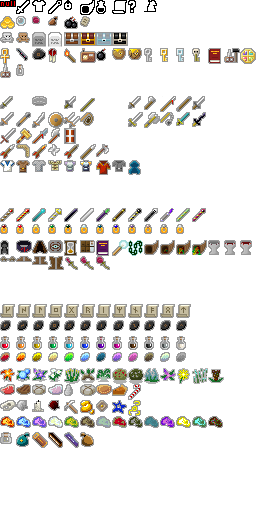
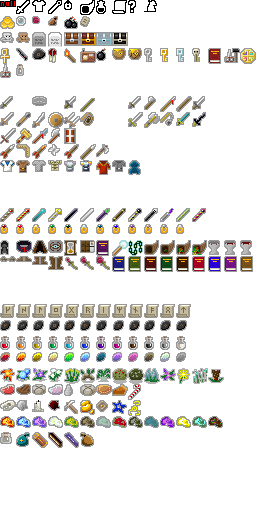
Generator Updated

Changed region(s): [[0.4375, 0.5, 1.0, 0.5312]]

diff --git a/core/src/main/java/com/lovecraftpixel/lovecraftpixeldungeon/scenes/ChangesScene.java b/core/src/main/java/com/lovecraftpixel/lovecraftpixeldungeon/scenes/ChangesScene.java
@@ -25,18 +25,25 @@ package com.lovecraftpixel.lovecraftpixeldungeon.scenes;
 
 import com.lovecraftpixel.lovecraftpixeldungeon.Chrome;
 import com.lovecraftpixel.lovecraftpixeldungeon.LovecraftPixelDungeon;
-import com.lovecraftpixel.lovecraftpixeldungeon.actors.mobs.livingplants.LivingPlantFireBloom;
+import com.lovecraftpixel.lovecraftpixeldungeon.actors.mobs.npcs.Gardner;
 import com.lovecraftpixel.lovecraftpixeldungeon.items.Generator;
 import com.lovecraftpixel.lovecraftpixeldungeon.items.Item;
+import com.lovecraftpixel.lovecraftpixeldungeon.items.quest.ElderSign;
+import com.lovecraftpixel.lovecraftpixeldungeon.items.quest.YellowSign;
+import com.lovecraftpixel.lovecraftpixeldungeon.items.tools.Scissors;
+import com.lovecraftpixel.lovecraftpixeldungeon.items.tools.Tincturebottle;
 import com.lovecraftpixel.lovecraftpixeldungeon.messages.Messages;
+import com.lovecraftpixel.lovecraftpixeldungeon.sprites.GardnerSprite;
 import com.lovecraftpixel.lovecraftpixeldungeon.sprites.ItemSprite;
 import com.lovecraftpixel.lovecraftpixeldungeon.sprites.ItemSpriteSheet;
+import com.lovecraftpixel.lovecraftpixeldungeon.sprites.LivingFirebloomPlantSprite;
 import com.lovecraftpixel.lovecraftpixeldungeon.ui.Archs;
 import com.lovecraftpixel.lovecraftpixeldungeon.ui.ExitButton;
 import com.lovecraftpixel.lovecraftpixeldungeon.ui.Icons;
 import com.lovecraftpixel.lovecraftpixeldungeon.ui.RenderedTextMultiline;
 import com.lovecraftpixel.lovecraftpixeldungeon.ui.ScrollPane;
 import com.lovecraftpixel.lovecraftpixeldungeon.ui.Window;
+import com.lovecraftpixel.lovecraftpixeldungeon.utils.BookTitles;
 import com.lovecraftpixel.lovecraftpixeldungeon.windows.WndTitledMessage;
 import com.watabou.input.Touchscreen;
 import com.watabou.noosa.Camera;
@@ -105,22 +112,75 @@ public class ChangesScene extends PixelScene {
 		changes.hardlight(Window.TITLE_COLOR);
 		infos.add(changes);
 		
-		changes.addButton( new ChangeButton( Icons.get(Icons.PREFS), "Custom Names",
+		changes.addButton( new ChangeButton( new ItemSprite(ItemSpriteSheet.BOOK_GOLD, null), "Custom Names",
 				"You now have to give your hero a name before you start a new game, it can also be a random generated name."));
 
-		changes.addButton( new ChangeButton( Icons.get(Icons.PREFS), "Mental Health",
+		changes.addButton( new ChangeButton( new ItemSprite(ItemSpriteSheet.BOOK_PURPLE, null), "Mental Health",
 				"Your Mental Health is very important. It can be a hard task keeping your sanity in the dungeons..."));
 
-		changes.addButton( new ChangeButton( Icons.get(Icons.PREFS), "Knowledge",
+		changes.addButton( new ChangeButton( new ItemSprite(ItemSpriteSheet.BOOK_BLUE, null), "Knowledge",
 				"Discovering Secrets raises your knowledge. Knowledge can be used in multiple ways."));
 
-		changes.addButton( new ChangeButton( new ItemSprite(ItemSpriteSheet.ARTIFACT_SPELLBOOK, null), "Grimoire",
-				"You now have to give your hero a name before you start a new game, it can also be a random generated name."));
+		changes.addButton( new ChangeButton( new ItemSprite(ItemSpriteSheet.BOOK_RED, null), "Flavour Text",
+				"All kinds of items have now colorful quotes randomly assigned to them."));
+
+		changes.addButton( new ChangeButton( new ItemSprite(ItemSpriteSheet.BOOK_BROWN, null), "Grimoire",
+				"You now can fill a book about all the creatures you encountered. It works just like a Pokedex."));
+
+		changes.addButton( new ChangeButton( Icons.get(Icons.MASTERY), "Book Titles",
+				"Clicking on bookshelfs now gives you a random flavour booktitle just like this one: \n\n" + BookTitles.getRandomTitle()));
+
+		changes.addButton( new ChangeButton( new ItemSprite(ItemSpriteSheet.BOOK_GREEN, null), "Wells",
+				"Wells grant a mental health and knowledge boost."));
+
+		changes = new ChangeInfo("Mobs", false, null);
+		changes.hardlight( Window.TITLE_COLOR );
+		infos.add(changes);
+
+		changes.addButton( new ChangeButton(new LivingFirebloomPlantSprite(), "Living Plants", "Living Plants look like normal plants. If you step on a Living Plant, it wakes up and attacks everything around it. When slain, they drop their respective seed and have some other nasty or helpful effects."));
+
+		changes.addButton( new ChangeButton(new GardnerSprite(), new Gardner().name, new Gardner().description()));
+
+		changes = new ChangeInfo("Items", false, null);
+		changes.hardlight( Window.TITLE_COLOR );
+		infos.add(changes);
 
 		changes.addButton( new ChangeButton( new ItemSprite(Generator.random(Generator.Category.WEAPON).image, null), "Poisoned Weapon",
 				"You now have the ability to poison your weapons with seeds."));
 
-		changes.addButton( new ChangeButton(new LivingPlantFireBloom().sprite(), "Living Plants", "Living Plants look like normal plants. If you step on a Living Plant, it wakes up and attacks everything around it. When slain, they drop their respective seed and have some other nasty or helpful effects."));
+		changes.addButton( new ChangeButton( Icons.get(Icons.FOODBAG), "Food Bag",
+				"The Food Bag stores your food, simple as that."));
+
+		changes.addButton( new ChangeButton( new ItemSprite(new Scissors().image, null), "Scissors",
+				"Scissors let you cut plants and store them in your inventory."));
+
+		changes.addButton( new ChangeButton( new ItemSprite(new Tincturebottle().image, null), "Tincture Bottle",
+				"Can be used to combine seeds and cut plants into Herbs."));
+
+		changes.addButton( new ChangeButton( new ItemSprite(Generator.random(Generator.Category.PLANT).image, null), "Cut Plants",
+				"Plants can be cut and used to make Herbs."));
+
+		changes.addButton( new ChangeButton( new ItemSprite(Generator.random(Generator.Category.HERBS).image, null), "Herbs",
+				"Herbs are brewed with seeds and cut plants."));
+
+		changes.addButton( new ChangeButton( new ItemSprite(new YellowSign().image, null), new YellowSign().name(),
+				"Opens a portal to Aldebaran."));
+
+		changes.addButton( new ChangeButton( new ItemSprite(new ElderSign().image, null), new ElderSign().name(),
+				"Opens a portal to Neu Schwabenland."));
+
+		changes = new ChangeInfo("Blobs", false, null);
+		changes.hardlight( Window.TITLE_COLOR );
+		infos.add(changes);
+
+		changes.addButton( new ChangeButton( Icons.get(Icons.BUSY), "Sunlight",
+				"Sunlight lets grass and flowers grow in the dungeon."));
+
+		changes.addButton( new ChangeButton( Icons.get(Icons.BUSY), "Storm",
+				"Storms flood the dungeon and lets lightning strikes."));
+
+		changes.addButton( new ChangeButton( Icons.get(Icons.BUSY), "Spores",
+				"Spores reduce your mental health."));
 
 		Component content = list.content();
 		content.clear();

diff --git a/core/src/main/java/com/lovecraftpixel/lovecraftpixeldungeon/items/Generator.java b/core/src/main/java/com/lovecraftpixel/lovecraftpixeldungeon/items/Generator.java
@@ -145,6 +145,36 @@ import com.lovecraftpixel.lovecraftpixeldungeon.plants.Sorrowmoss;
 import com.lovecraftpixel.lovecraftpixeldungeon.plants.Starflower;
 import com.lovecraftpixel.lovecraftpixeldungeon.plants.Stormvine;
 import com.lovecraftpixel.lovecraftpixeldungeon.plants.Sungrass;
+import com.lovecraftpixel.lovecraftpixeldungeon.plants.herbs.BlandfruitHerb;
+import com.lovecraftpixel.lovecraftpixeldungeon.plants.herbs.BlindweedHerb;
+import com.lovecraftpixel.lovecraftpixeldungeon.plants.herbs.DewcatcherHerb;
+import com.lovecraftpixel.lovecraftpixeldungeon.plants.herbs.DreamfoilHerb;
+import com.lovecraftpixel.lovecraftpixeldungeon.plants.herbs.EarthrootHerb;
+import com.lovecraftpixel.lovecraftpixeldungeon.plants.herbs.FadeleafHerb;
+import com.lovecraftpixel.lovecraftpixeldungeon.plants.herbs.FirebloomHerb;
+import com.lovecraftpixel.lovecraftpixeldungeon.plants.herbs.Herb;
+import com.lovecraftpixel.lovecraftpixeldungeon.plants.herbs.IcecapHerb;
+import com.lovecraftpixel.lovecraftpixeldungeon.plants.herbs.RotberryHerb;
+import com.lovecraftpixel.lovecraftpixeldungeon.plants.herbs.SeedpodHerb;
+import com.lovecraftpixel.lovecraftpixeldungeon.plants.herbs.SorrowmossHerb;
+import com.lovecraftpixel.lovecraftpixeldungeon.plants.herbs.StarflowerHerb;
+import com.lovecraftpixel.lovecraftpixeldungeon.plants.herbs.StormvineHerb;
+import com.lovecraftpixel.lovecraftpixeldungeon.plants.herbs.SungrassHerb;
+import com.lovecraftpixel.lovecraftpixeldungeon.plants.itemplants.BlandfruitItem;
+import com.lovecraftpixel.lovecraftpixeldungeon.plants.itemplants.BlindweedItem;
+import com.lovecraftpixel.lovecraftpixeldungeon.plants.itemplants.DewcatcherItem;
+import com.lovecraftpixel.lovecraftpixeldungeon.plants.itemplants.DreamfoilItem;
+import com.lovecraftpixel.lovecraftpixeldungeon.plants.itemplants.EarthrootItem;
+import com.lovecraftpixel.lovecraftpixeldungeon.plants.itemplants.FadeleafItem;
+import com.lovecraftpixel.lovecraftpixeldungeon.plants.itemplants.FirebloomItem;
+import com.lovecraftpixel.lovecraftpixeldungeon.plants.itemplants.IcecapItem;
+import com.lovecraftpixel.lovecraftpixeldungeon.plants.itemplants.PlantItem;
+import com.lovecraftpixel.lovecraftpixeldungeon.plants.itemplants.RotberryItem;
+import com.lovecraftpixel.lovecraftpixeldungeon.plants.itemplants.SeedpodItem;
+import com.lovecraftpixel.lovecraftpixeldungeon.plants.itemplants.SorrowmossItem;
+import com.lovecraftpixel.lovecraftpixeldungeon.plants.itemplants.StarflowerItem;
+import com.lovecraftpixel.lovecraftpixeldungeon.plants.itemplants.StormvineItem;
+import com.lovecraftpixel.lovecraftpixeldungeon.plants.itemplants.SungrassItem;
 import com.watabou.utils.Bundle;
 import com.watabou.utils.GameMath;
 import com.watabou.utils.Random;
@@ -170,6 +200,8 @@ public class Generator {
 		ARTIFACT( 1,    Artifact.class),
 		SEED	( 0,    Plant.Seed.class ),
 		FOOD	( 0,    Food.class ),
+		PLANT	( 0,    PlantItem.class ),
+		HERBS	( 0,    Herb.class ),
 		GOLD	( 25,   Gold.class );
 		
 		public Class<?>[] classes;
@@ -317,6 +349,40 @@ public class Generator {
 					Pasty.class,
 					MysteryMeat.class };
 			FOOD.probs = new float[]{ 4, 1, 0 };
+
+			PLANT.classes = new Class<?>[]{
+					BlandfruitItem.class,
+					BlindweedItem.class,
+					DewcatcherItem.class,
+					DreamfoilItem.class,
+					EarthrootItem.class,
+					FadeleafItem.class,
+					FirebloomItem.class,
+					IcecapItem.class,
+					RotberryItem.class,
+					SeedpodItem.class,
+					SorrowmossItem.class,
+					StarflowerItem.class,
+					StormvineItem.class,
+					SungrassItem.class};
+			PLANT.probs = new float[]{ 1, 1, 1, 1, 1, 1, 1, 1, 1, 1, 1, 1, 1, 1  };
+
+			HERBS.classes = new Class<?>[]{
+					BlandfruitHerb.class,
+					BlindweedHerb.class,
+					DewcatcherHerb.class,
+					DreamfoilHerb.class,
+					EarthrootHerb.class,
+					FadeleafHerb.class,
+					FirebloomHerb.class,
+					IcecapHerb.class,
+					RotberryHerb.class,
+					SeedpodHerb.class,
+					SorrowmossHerb.class,
+					StarflowerHerb.class,
+					StormvineHerb.class,
+					SungrassHerb.class};
+			HERBS.probs = new float[]{ 1, 1, 1, 1, 1, 1, 1, 1, 1, 1, 1, 1, 1, 1  };
 			
 			RING.classes = new Class<?>[]{
 					RingOfAccuracy.class,

diff --git a/core/src/main/java/com/lovecraftpixel/lovecraftpixeldungeon/sprites/ItemSpriteSheet.java b/core/src/main/java/com/lovecraftpixel/lovecraftpixeldungeon/sprites/ItemSpriteSheet.java
@@ -321,6 +321,16 @@ public class ItemSpriteSheet {
 	public static final int ARTIFACT_ROSE1      = ARTIFACTS+20;
 	public static final int ARTIFACT_ROSE2      = ARTIFACTS+21;
 	public static final int ARTIFACT_ROSE3      = ARTIFACTS+22;
+
+	public static final int BOOK_DARK_BLUE      = ARTIFACTS+23;
+	public static final int BOOK_LIME_GREEN     = ARTIFACTS+24;
+	public static final int BOOK_BLOOD      	= ARTIFACTS+25;
+	public static final int BOOK_GREEN      	= ARTIFACTS+26;
+	public static final int BOOK_BROWN      	= ARTIFACTS+27;
+	public static final int BOOK_RED      		= ARTIFACTS+28;
+	public static final int BOOK_BLUE      		= ARTIFACTS+29;
+	public static final int BOOK_PURPLE      	= ARTIFACTS+30;
+	public static final int BOOK_GOLD      		= ARTIFACTS+31;
 	static{
 		assignItemRect(ARTIFACT_CLOAK,      9,  15);
 		assignItemRect(ARTIFACT_ARMBAND,    16, 13);
@@ -345,6 +355,16 @@ public class ItemSpriteSheet {
 		assignItemRect(ARTIFACT_ROSE1,      14, 14);
 		assignItemRect(ARTIFACT_ROSE2,      14, 14);
 		assignItemRect(ARTIFACT_ROSE3,      14, 14);
+
+		assignItemRect(BOOK_DARK_BLUE,      14, 16);
+		assignItemRect(BOOK_LIME_GREEN,     14, 16);
+		assignItemRect(BOOK_BLOOD,      	14, 16);
+		assignItemRect(BOOK_GREEN,      	14, 16);
+		assignItemRect(BOOK_BROWN,      	14, 16);
+		assignItemRect(BOOK_RED,      		14, 16);
+		assignItemRect(BOOK_BLUE,      		14, 16);
+		assignItemRect(BOOK_PURPLE,      	14, 16);
+		assignItemRect(BOOK_GOLD,      		14, 16);
 	}
 
 	                                                                                    //32 free slots

diff --git a/core/src/main/java/com/lovecraftpixel/lovecraftpixeldungeon/levels/rooms/special/SpecialRoom.java b/core/src/main/java/com/lovecraftpixel/lovecraftpixeldungeon/levels/rooms/special/SpecialRoom.java
@@ -70,7 +70,7 @@ public class SpecialRoom extends Room {
 	public static ArrayList<Class<? extends Room>> runSpecials = new ArrayList<>();
 	public static ArrayList<Class<? extends Room>> floorSpecials = new ArrayList<>();
 	
-	private static int pitNeededDepth = 0;
+	private static int pitNeededDepth = -1;
 	private static int guaranteedWellDepth = Integer.MAX_VALUE;
 	
 	public static void initForRun() {
@@ -86,7 +86,7 @@ public class SpecialRoom extends Room {
 			runSpecials.remove( GardenRoom.class );
 		}
 		
-		pitNeededDepth = 0;
+		pitNeededDepth = -1;
 		guaranteedWellDepth = Random.IntRange( 6, 14 );
 		Random.shuffle(runSpecials);
 	}
